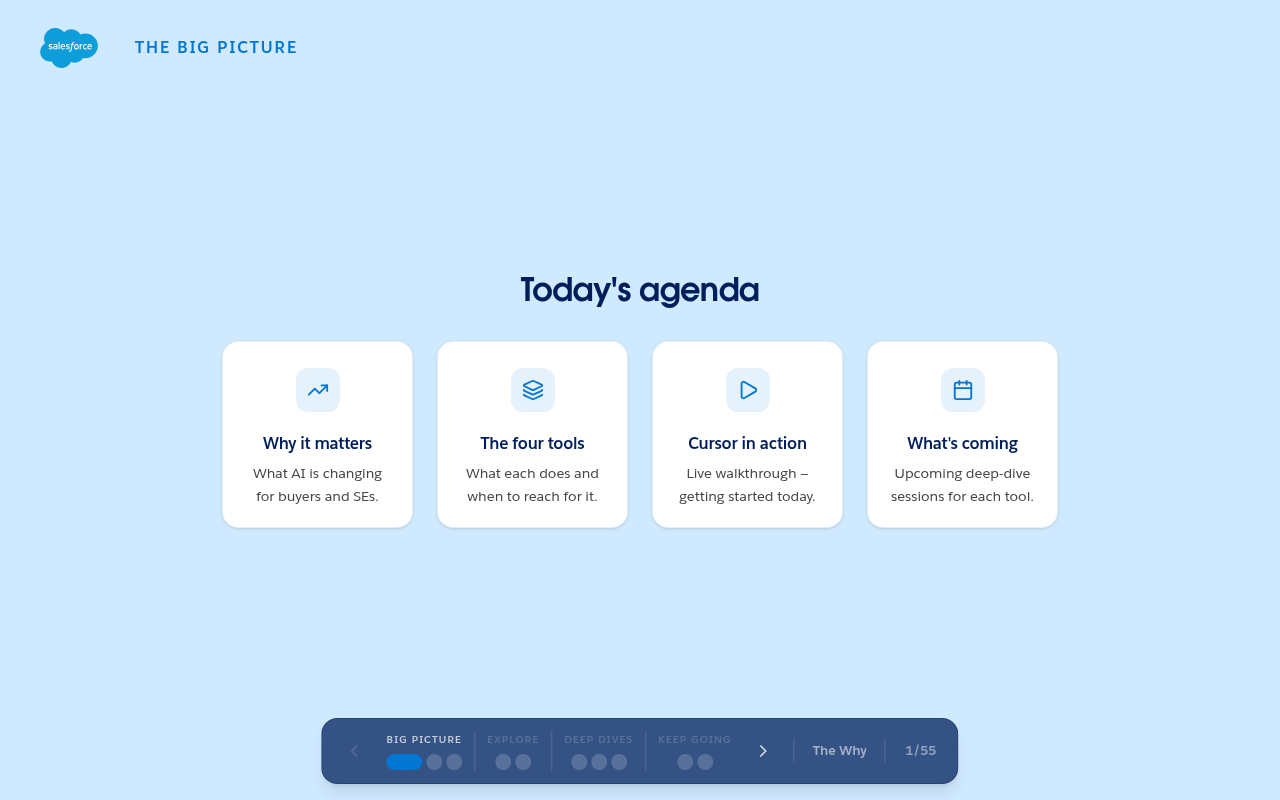
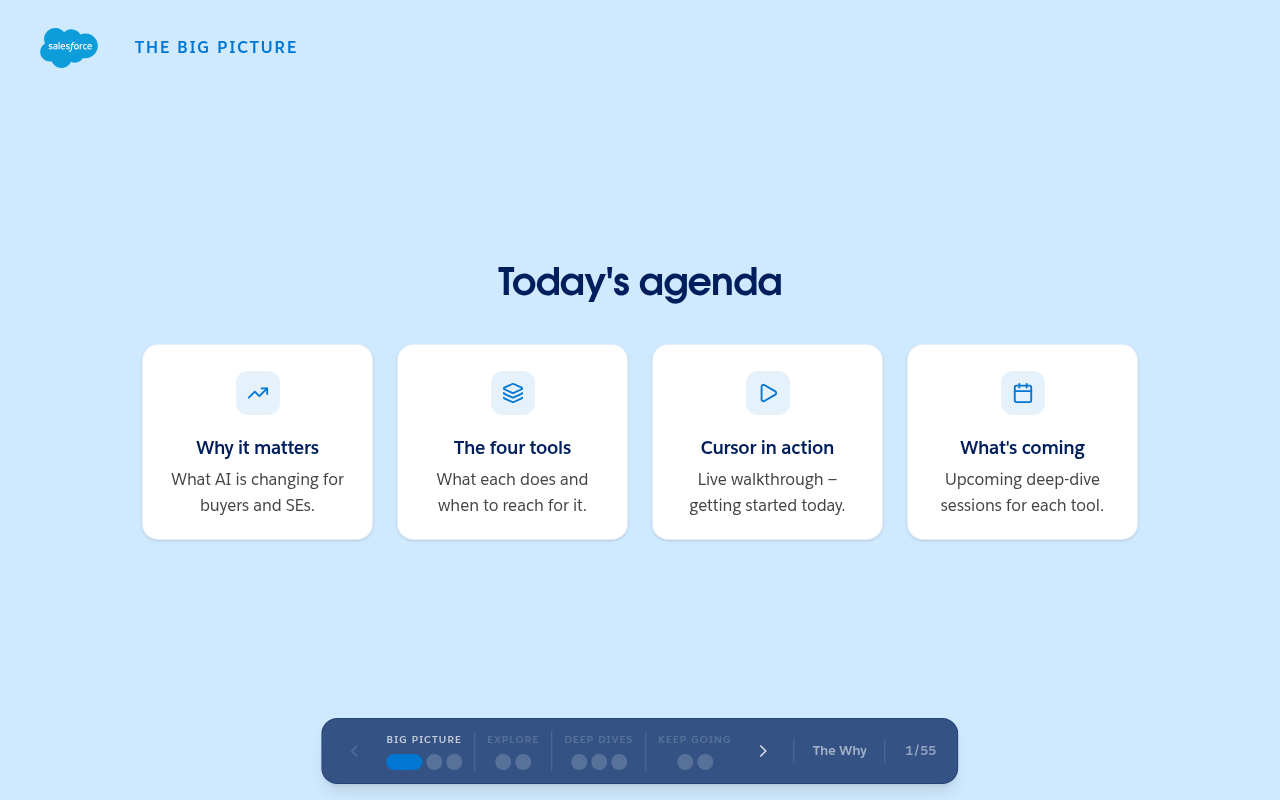
Enlarge slide content: wider max-widths and bigger font sizes
BigStat 680→900px, 88→120px value; Statement 780→960px, 46→56px;
Cinematic 760→960px, 54→64px; TierTransition 700→900px, 54→64px;
Quote 720→900px, 32→38px; Takeaway 700→880px, 26→32px;
IconBullets 900→1060px, 32→38px heading, 14→16px body.

Content now fills the viewport much better with less surrounding
whitespace, especially on simple stat/statement/quote slides.

Changed region(s): [[0.0938, 0.4062, 0.9062, 0.6875], [0.375, 0.3125, 0.625, 0.4062]]

diff --git a/src/components/slides/QuoteSlide.jsx b/src/components/slides/QuoteSlide.jsx
@@ -22,17 +22,17 @@ export default function QuoteSlide({ quote, attribution, context, fullscreen }) 
   const quoteWords = quote.split(' ')
 
   return (
-    <div className="flex flex-col items-center justify-center text-center max-w-[720px] mx-auto px-8">
+    <div className="flex flex-col items-center justify-center text-center max-w-[900px] mx-auto px-8">
       {context && (
-        <p className="text-[16px] text-[var(--color-text-muted)] leading-relaxed mb-8 max-w-[600px]">
+        <p className="text-[18px] text-[var(--color-text-muted)] leading-relaxed mb-8 max-w-[720px]">
           {context}
         </p>
       )}
       <blockquote ref={quoteRef} className="relative">
-        <span className="absolute -top-6 -left-4 text-[72px] leading-none text-[var(--color-accent)]/15 font-serif select-none">
+        <span className="absolute -top-8 -left-5 text-[88px] leading-none text-[var(--color-accent)]/15 font-serif select-none">
           &ldquo;
         </span>
-        <p className="text-[32px] leading-[1.35] font-bold text-[var(--color-heading)] tracking-[-0.02em]">
+        <p className="text-[38px] leading-[1.35] font-bold text-[var(--color-heading)] tracking-[-0.02em]">
           {quoteWords.map((word, i) => (
             <span key={i} className="quote-word inline-block mr-[0.3em]">
               {word}
@@ -41,7 +41,7 @@ export default function QuoteSlide({ quote, attribution, context, fullscreen }) 
         </p>
       </blockquote>
       {attribution && (
-        <p className="mt-6 text-[15px] text-[var(--color-accent)] font-bold">
+        <p className="mt-8 text-[17px] text-[var(--color-accent)] font-bold">
           &mdash; {attribution}
         </p>
       )}

diff --git a/src/components/slides/IconBulletsSlide.jsx b/src/components/slides/IconBulletsSlide.jsx
@@ -19,8 +19,8 @@ export default function IconBulletsSlide({ title, bullets, fullscreen }) {
   const cols = bullets.length === 4 ? 'grid-cols-2 sm:grid-cols-4' : 'grid-cols-3'
 
   return (
-    <div className="max-w-[900px] mx-auto px-8">
-      <h2 className="text-[32px] font-bold text-[var(--color-heading)] tracking-[-0.02em] text-center mb-8">
+    <div className="max-w-[1060px] mx-auto px-8">
+      <h2 className="text-[38px] font-bold text-[var(--color-heading)] tracking-[-0.02em] text-center mb-10">
         {title}
       </h2>
       <div className={`grid ${cols} gap-6 items-stretch`}>
@@ -51,10 +51,10 @@ export default function IconBulletsSlide({ title, bullets, fullscreen }) {
                 </div>
               ) : null}
 
-              <h3 className="text-[16px] font-bold text-[var(--color-heading)] mb-2">
+              <h3 className="text-[18px] font-bold text-[var(--color-heading)] mb-2">
                 {bullet.title}
               </h3>
-              <p className="text-[14px] text-[var(--color-text-secondary)] leading-relaxed">
+              <p className="text-[16px] text-[var(--color-text-secondary)] leading-relaxed">
                 {bullet.description}
               </p>
             </div>

diff --git a/src/components/slides/TierTransitionSlide.jsx b/src/components/slides/TierTransitionSlide.jsx
@@ -23,21 +23,21 @@ export default function TierTransitionSlide({ label, supporting, fullscreen }) {
   }, [label])
 
   return (
-    <div className="flex flex-col items-center justify-center text-center max-w-[700px] mx-auto px-8">
+    <div className="flex flex-col items-center justify-center text-center max-w-[900px] mx-auto px-8">
       <p
         ref={labelRef}
-        className="text-[13px] font-bold uppercase tracking-[0.15em] text-[var(--color-cloud-light)] mb-4"
+        className="text-[15px] font-bold uppercase tracking-[0.15em] text-[var(--color-cloud-light)] mb-5"
       >
         Next Section
       </p>
       <h2
         ref={labelRef}
-        className="text-[54px] font-bold text-white tracking-[-0.03em] mb-4"
+        className="text-[64px] font-bold text-white tracking-[-0.03em] mb-5"
       >
         {label}
       </h2>
       {supporting && (
-        <p ref={supportRef} className="text-[20px] text-white/60 leading-relaxed">
+        <p ref={supportRef} className="text-[24px] text-white/60 leading-relaxed">
           {supporting}
         </p>
       )}

diff --git a/src/components/slides/BigStatSlide.jsx b/src/components/slides/BigStatSlide.jsx
@@ -1,14 +1,14 @@
 export default function BigStatSlide({ value, label, source, fullscreen }) {
   return (
-    <div className="flex flex-col items-center justify-center text-center max-w-[680px] mx-auto px-8">
-      <p className="text-[88px] font-bold text-[var(--color-accent)] leading-[1] tracking-[-0.04em] mb-6">
+    <div className="flex flex-col items-center justify-center text-center max-w-[900px] mx-auto px-8">
+      <p className="text-[120px] font-bold text-[var(--color-accent)] leading-[1] tracking-[-0.04em] mb-8">
         {value}
       </p>
-      <p className="text-[22px] text-[var(--color-text-secondary)] leading-snug max-w-[480px] mb-5">
+      <p className="text-[28px] text-[var(--color-text-secondary)] leading-snug max-w-[640px] mb-6">
         {label}
       </p>
       {source && (
-        <p className="text-[13px] text-[var(--color-text-muted)] italic tracking-wide">
+        <p className="text-[16px] text-[var(--color-text-muted)] italic tracking-wide">
           {source}
         </p>
       )}

diff --git a/src/components/slides/StatementSlide.jsx b/src/components/slides/StatementSlide.jsx
@@ -1,8 +1,8 @@
 export default function StatementSlide({ statement, supporting, fullscreen, isDarkBg }) {
   return (
-    <div className="flex flex-col items-center justify-center text-center max-w-[780px] mx-auto px-8">
+    <div className="flex flex-col items-center justify-center text-center max-w-[960px] mx-auto px-8">
       <h2
-        className={`text-[46px] leading-[1.1] font-bold tracking-[-0.03em] mb-6 ${
+        className={`text-[56px] leading-[1.1] font-bold tracking-[-0.03em] mb-6 ${
           isDarkBg ? 'text-white' : 'text-[var(--color-heading)]'
         }`}
       >
@@ -10,7 +10,7 @@ export default function StatementSlide({ statement, supporting, fullscreen, isDa
       </h2>
       {supporting && (
         <p
-          className={`text-[17px] leading-relaxed max-w-[540px] ${
+          className={`text-[20px] leading-relaxed max-w-[640px] ${
             isDarkBg ? 'text-white/40' : 'text-[var(--color-text-muted)]'
           }`}
         >

diff --git a/src/components/slides/TakeawaySlide.jsx b/src/components/slides/TakeawaySlide.jsx
@@ -14,10 +14,10 @@ function parseBold(text) {
 
 export default function TakeawaySlide({ text, fullscreen }) {
   return (
-    <div className="flex items-center justify-center max-w-[700px] mx-auto px-8">
+    <div className="flex items-center justify-center max-w-[880px] mx-auto px-8">
       <div className="relative">
-        <div className="absolute left-0 top-0 bottom-0 w-1 rounded-full bg-[var(--color-accent)]" />
-        <p className="text-[26px] leading-[1.45] text-[var(--color-text-prose)] font-medium pl-8">
+        <div className="absolute left-0 top-0 bottom-0 w-1.5 rounded-full bg-[var(--color-accent)]" />
+        <p className="text-[32px] leading-[1.45] text-[var(--color-text-prose)] font-medium pl-10">
           {parseBold(text)}
         </p>
       </div>

diff --git a/src/components/slides/CinematicSlide.jsx b/src/components/slides/CinematicSlide.jsx
@@ -1,7 +1,7 @@
 export default function CinematicSlide({ statement, fullscreen }) {
   return (
-    <div className="flex flex-col items-center justify-center text-center max-w-[760px] mx-auto px-8">
-      <h2 className="text-[54px] leading-[1.12] font-bold tracking-[-0.03em] text-white">
+    <div className="flex flex-col items-center justify-center text-center max-w-[960px] mx-auto px-8">
+      <h2 className="text-[64px] leading-[1.12] font-bold tracking-[-0.03em] text-white">
         {statement}
       </h2>
     </div>
